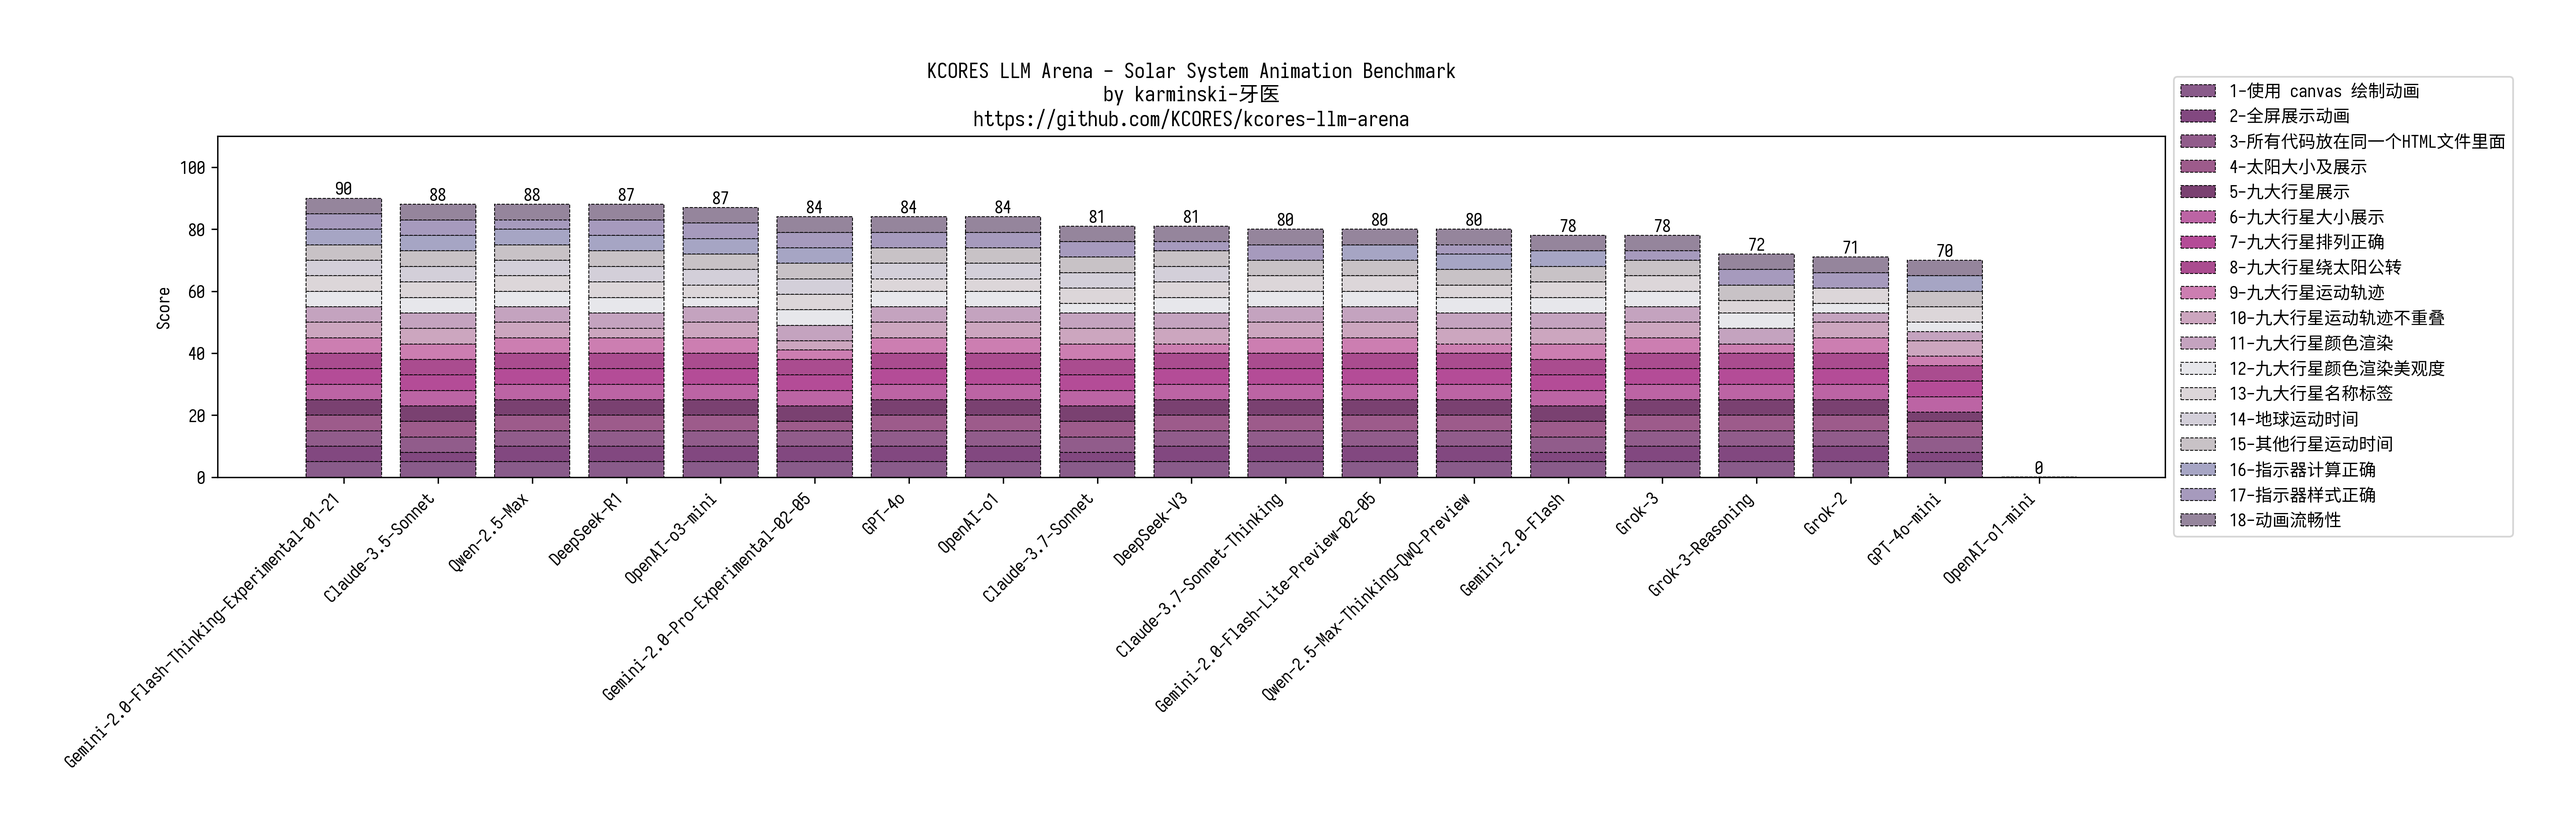
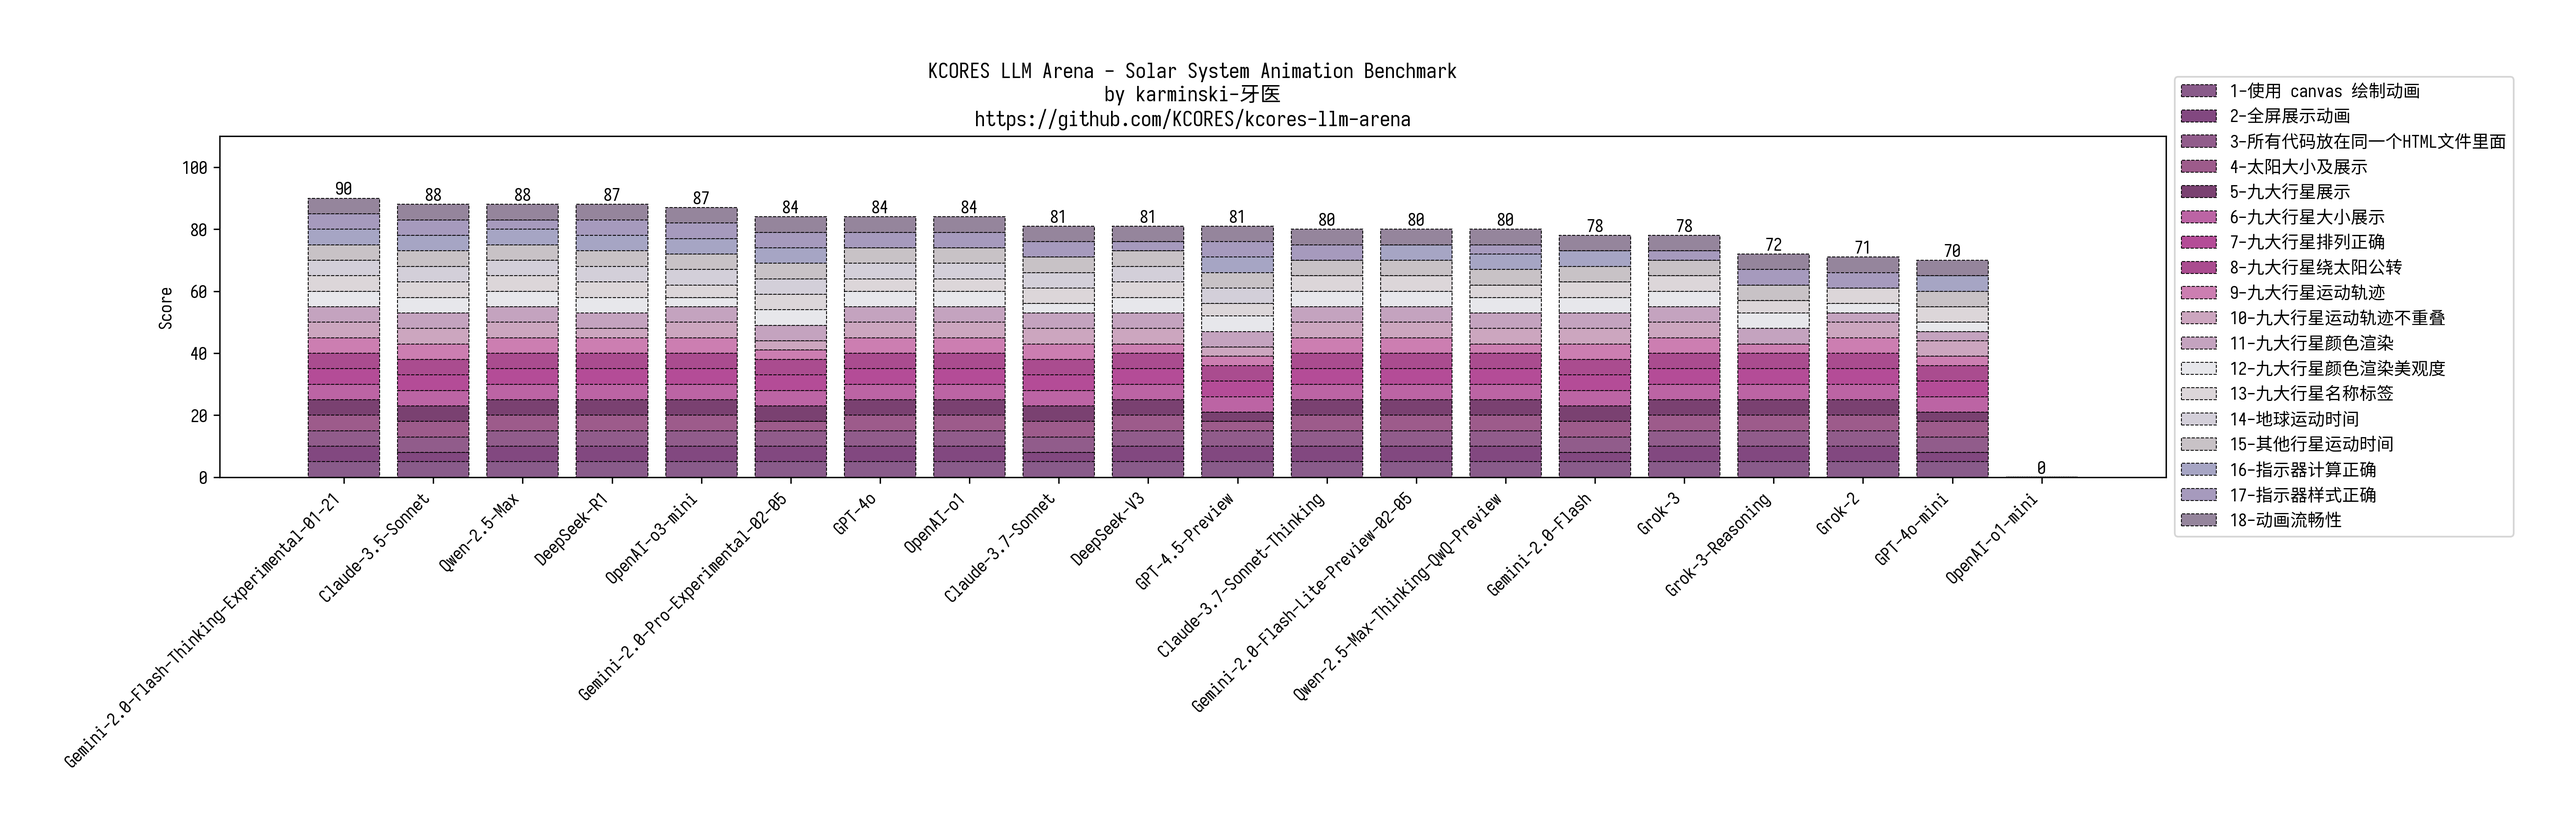
ADD GPT-4.5-Preview results

diff --git a/benchmark-mandelbrot-set-meet-libai/README.md b/benchmark-mandelbrot-set-meet-libai/README.md
@@ -88,6 +88,7 @@ Mandelbrot Set Meet LiBai 测试
 | Claude-3.7-Sonnet-Thinking | 5 | 5 | 5 | 5 | 4 (过大, 但能看到period-3 bulb) | 5 | 5 | 5 | 5 | 5 | 3 (Period-3/4 bulb 未留空) | 5 | 5 | 5 | 5 | 5 | 18 | 95 | 
 | Claude-3.7-Sonnet | 5 | 5 | 5 | 5 | 5 | 5 | 5 | 5 | 5 | 5 | 3 (Period-3/4 bulb 未留空) | 5 | 5 | 5 | 0 (计算不正确) | 5 | 9 | 82 | 
 | Qwen-2.5-Max-Thinking (QwQ Preview) | 5 | 5 | 5 | 5 | 2 (过大, 只能看不完整的 Main cardioid 和 period-2 bulb) | 5 | 5 | 5 | 5 | 5 | 5 | 5 | 5 | 5 | 0 (计算不正确) | 3 (样式不正确, overflow了, 外加无圆角) | 20 (-10, 过大, 但能看到完整的 period-2 bulb) | 90 | 
+| GPT-4.5-Preview | 5 | 5 | 5 | 5 | 4 (过小, 但能看到period-3 bulb)  | 5 | 5 | 5 | 5 | 5 | 5 | 5 | 5 | 5 | 5 |  5 | 5 (-25, 最外部没有使用文本渲染) | 84 | 
 
 
 
@@ -108,7 +109,7 @@ Mandelbrot Set Meet LiBai 测试
 
 **last update at 2025-02-25**
 
-- 从目视来讲, 效果最好的是 Claude-3.7-Sonnet-Thinking 和 Qwen-2.5-Max. 其中 Claude-3.7-Sonnet-Thinking 的代码性能最高, 而 Qwen-2.5-Max 的需求还原能力最高. 
+- 从目视来讲, 效果最好的是 Claude-3.7-Sonnet-Thinking 和 GPT-4.5-Preview. 其中 Claude-3.7-Sonnet-Thinking 的代码性能最高, 而 GPT-4.5-Preview 的需求还原能力最高. 
 - 两种统计方式中, Claude-3.7-Sonnet-Thinking 表现十分稳定, 是编程首选. 
 - 代码质量上 (注意不是代码水平而是代码质量), OpenAI-o1 当之无愧是第一名, 达到了一流开源软件的代码质量.
 - Gemini 综合质量垫底, 新出的 02-05 版本甚至没有 Gemini-2.0-Flash 和 Gemini-2.0-Flash-Thinking-Experimental-01-21 表现好. 

diff --git a/benchmark-solar-system/README.md b/benchmark-solar-system/README.md
@@ -118,6 +118,7 @@ Solar System Animation 测试
 | OpenAI-o3-mini | 5 | 5 | 5 | 5 | 5 | 5 | 5 | 5 | 5 | 5 | 5 | 3 (颜色简单排列) | 4 (标签被遮挡) | 5 | 5 | 5 | 5 | 5 | 87 |
 | Qwen-2.5-Max-Thinking-QwQ-Preview | 5 | 5 | 5 | 5 | 5 | 5 | 5 | 5 | 3 (背景色是白色造成轨迹不可见) | 5 | 5 | 5 | 4 (标签被遮挡) | 0 (速度过快) | 5 | 5 | 3 (没有圆角) | 5 | 80 |
 | Qwen-2.5-Max | 5 | 5 | 5 | 5 | 5 | 5 | 5 | 5 | 5 | 5 | 5 | 5 | 5 | 5 | 5 | 5 | 3 (没有圆角且文本超过了背景) | 5 | 88 |
+| GPT-4.5-Preview | 5 | 5 | 5 | 3 (太阳不是圆的) | 3 (行星不是圆的) | 5 | 5 | 5 | 3 (背景色是白色造成轨迹不可见) | 3 (部分轨道重叠) | 5 | 5 | 4 (标签被遮挡) | 5 | 5 | 5 | 5 | 5 | 81 |
 
 
 ## 可视化结果

diff --git a/benchmark-mars-mission/README.md b/benchmark-mars-mission/README.md
@@ -63,6 +63,7 @@ Generate code for an animated 3d plot of a launch from earth landing on mars and
 | Claude-3.7-Sonnet |  0 | 5 | 5 | 5 | 0 (轨道错误) | 0 (轨道错误) | 5  | 5 | 5 | 0 (无倾角) | 3 (有比例尺) | 3 (无太阳) |  3 （动画过慢） | 39 | 
 | Claude-3.7-Sonnet-Thinking |  5 | 5 | 5 | 5 |  0 (轨道错误)  | 0 (轨道错误) | 5 | 3 (偏差小于50%) | 0 (偏差大于50%)| 0 (无倾角) | 5 | 5 |  5 | 43 | 
 | Qwen-2.5-Max-Thinking (QwQ-Preview) |  5 | 5 | 5 | 5 |  0 (轨道错误) | 0 (轨道错误) | 5 | 5 | 0 (偏差大于50%)| 0 (无倾角) | 5 | 3 (无太阳) |  5 | 43 | 
+| GPT-4.5-Preview |  0 | 0 | 0  | 0|  0  | 0 | 0 | 0 | 0 | 0  | 0 | 0 |  0 | 0 | 
 
 ## 可视化结果
 
